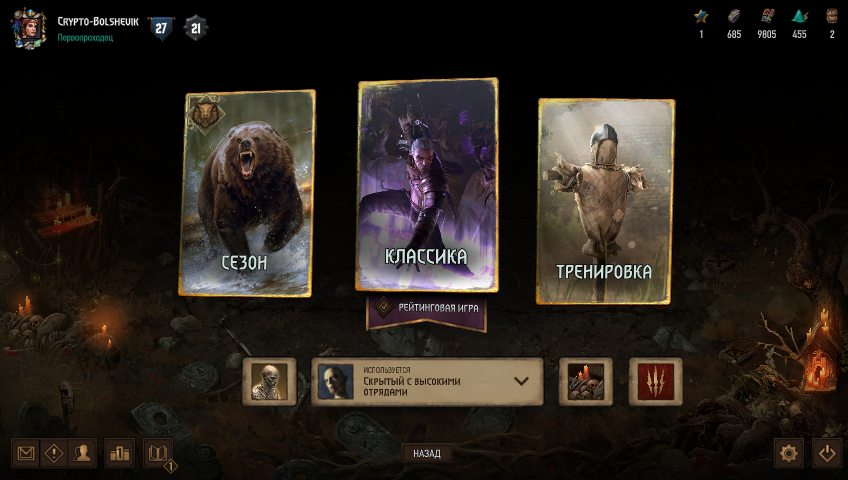
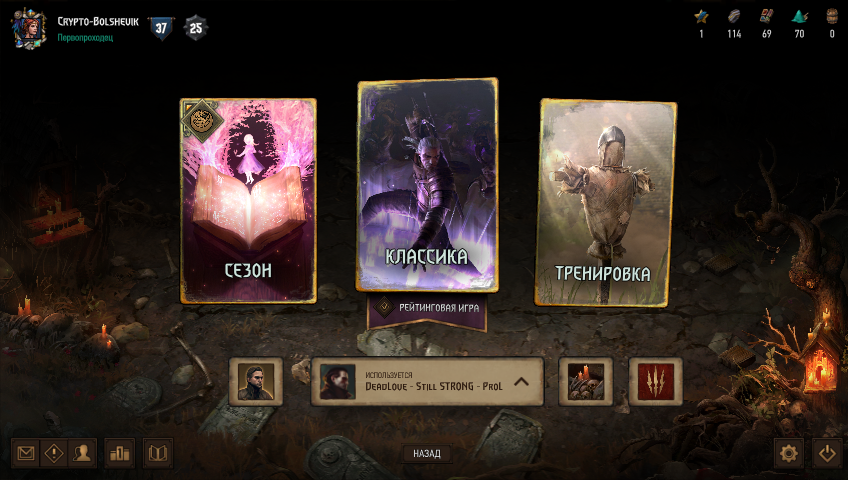
добавена основа соля PageObject внесены изменения в распознание состояния GameModes, в связи с новым патчем в игре

diff --git a/GwentBot.GUI/App.xaml b/GwentBot.GUI/App.xaml
@@ -4,6 +4,5 @@
              xmlns:local="clr-namespace:GwentBot.GUI"
              StartupUri="MainWindow.xaml">
     <Application.Resources>
-         
     </Application.Resources>
 </Application>

diff --git a/GwentBot/Bot.cs b/GwentBot/Bot.cs
@@ -1,6 +1,9 @@
 // This is an independent project of an individual developer. Dear PVS-Studio, please check it.
 // PVS-Studio Static Code Analyzer for C, C++, C#, and Java: http://www.viva64.com
 using GwentBot.ComputerVision;
+using GwentBot.PageObjects;
+using GwentBot.PageObjects.SupportObjects;
+using GwentBot.StateAbstractions;
 using System;
 using System.Threading;
 using System.Threading.Tasks;
@@ -17,39 +20,59 @@ namespace GwentBot
         {
             IsWork = true;
 
+            //await Task.Run(() =>
+            //{
+            //    var screenShotCreator = new GwentWindowScreenShotCreator();
+            //    var cv = new OpenCvGwentStateChecker(screenShotCreator);
+            //    while (IsWork)
+            //    {
+            //        if (screenShotCreator.IsGameWindowFullVisible())
+            //        {
+            //            var globalStat = cv.GetCurrentGlobalGameStates();
+            //            var startGameStates = cv.GetCurrentStartGameStates();
+            //            var friendlyGameStat = cv.GetCurrentFriendlyGameStartStates();
+            //            var coinTossStat = cv.GetCurrentCoinTossStates();
+            //            var gameSesStat = cv.GetCurrentGameSessionStates();
+            //            var notif = cv.GetCurrentNotifications();
+
+            //            if (globalStat != GlobalGameStates.Unknown)
+            //                GameStatusChanged?.Invoke(Enum.GetName(globalStat.GetType(), globalStat));
+            //            else if (startGameStates != StartGameStates.Unknown)
+            //                GameStatusChanged?.Invoke(Enum.GetName(startGameStates.GetType(), startGameStates));
+            //            else if (friendlyGameStat != FriendlyGameStartStates.Unknown)
+            //                GameStatusChanged?.Invoke(Enum.GetName(friendlyGameStat.GetType(), friendlyGameStat));
+            //            else if (coinTossStat != CoinTossStates.Unknown)
+            //                GameStatusChanged?.Invoke(Enum.GetName(coinTossStat.GetType(), coinTossStat));
+            //            else if (gameSesStat != GameSessionStates.Unknown)
+            //                GameStatusChanged?.Invoke(Enum.GetName(gameSesStat.GetType(), gameSesStat));
+            //            else
+            //                GameStatusChanged?.Invoke("Unknown");
+
+            //            if (notif != Notifications.NoNotifications)
+            //                GameStatusChanged?.Invoke(Enum.GetName(notif.GetType(), notif));
+            //        }
+
+            //        Thread.Sleep(500);
+            //    }
+            //});
+
+            var screenShotCreator = new GwentWindowScreenShotCreator();
+            var cv = new OpenCvGwentStateChecker(screenShotCreator);
+
             await Task.Run(() =>
             {
-                var screenShotCreator = new GwentWindowScreenShotCreator();
-                var cv = new OpenCvGwentStateChecker(screenShotCreator);
-                while (IsWork)
+                while (this.IsWork)
                 {
                     if (screenShotCreator.IsGameWindowFullVisible())
                     {
-                        var globalStat = cv.GetCurrentGlobalGameStates();
-                        var startGameStates = cv.GetCurrentStartGameStates();
-                        var friendlyGameStat = cv.GetCurrentFriendlyGameStartStates();
-                        var coinTossStat = cv.GetCurrentCoinTossStates();
-                        var gameSesStat = cv.GetCurrentGameSessionStates();
-                        var notif = cv.GetCurrentNotifications();
-
-                        if (globalStat != GlobalGameStates.Unknown)
-                            GameStatusChanged?.Invoke(Enum.GetName(globalStat.GetType(), globalStat));
-                        else if (startGameStates != StartGameStates.Unknown)
-                            GameStatusChanged?.Invoke(Enum.GetName(startGameStates.GetType(), startGameStates));
-                        else if (friendlyGameStat != FriendlyGameStartStates.Unknown)
-                            GameStatusChanged?.Invoke(Enum.GetName(friendlyGameStat.GetType(), friendlyGameStat));
-                        else if (coinTossStat != CoinTossStates.Unknown)
-                            GameStatusChanged?.Invoke(Enum.GetName(coinTossStat.GetType(), coinTossStat));
-                        else if (gameSesStat != GameSessionStates.Unknown)
-                            GameStatusChanged?.Invoke(Enum.GetName(gameSesStat.GetType(), gameSesStat));
-                        else
-                            GameStatusChanged?.Invoke("Unknown");
-
-                        if (notif != Notifications.NoNotifications)
-                            GameStatusChanged?.Invoke(Enum.GetName(notif.GetType(), notif));
+                        var mainPage = new MainMenuPage(cv, new DefaultWaitingService());
+                        GameStatusChanged?.Invoke("Главное меню");
+                        var gameModesPage = mainPage.GoToGameModesPage();
+                        GameStatusChanged?.Invoke("Игровые режимы");
+                        var newMainPage = gameModesPage.GoToMainMenuPage();
+                        GameStatusChanged?.Invoke("Главное меню");
+                        IsWork = false;
                     }
-
-                    Thread.Sleep(500);
                 }
             });
         }

diff --git a/GwentBot.Tests/PageObjects/MainMenuPageTests.cs b/GwentBot.Tests/PageObjects/MainMenuPageTests.cs
@@ -1,0 +1,58 @@
+using GwentBot.PageObjects;
+using GwentBot.PageObjects.Abstract;
+using GwentBot.StateAbstractions;
+using Microsoft.VisualStudio.TestTools.UnitTesting;
+using Moq;
+
+namespace GwentBot.Tests.PageObjects
+{
+    [TestClass]
+    public class MainMenuPageTests
+    {
+        [TestMethod]
+        public void VerifyingPageTest_GlobalGameStatesMainMenu_CorrectNewObject()
+        {
+            //arrage
+            //act
+            MainMenuPage mainMenuPage = GetNewMainMenuPage();
+            //assert
+            Assert.IsNotNull(mainMenuPage);
+        }
+
+        [TestMethod]
+        public void VerifyingPageTest_GlobalGameStatesUnknown_NotCorrectNewObject()
+        {
+            try
+            {
+                //arrage
+                var gwentStateChecker = new Mock<IGwentStateChecker>();
+                gwentStateChecker.Setup(o => o.GetCurrentGlobalGameStates())
+                    .Returns(GlobalGameStates.Unknown);
+
+                var waitingService = new Mock<IWaitingService>();
+                waitingService.Setup(o => o.Wait(It.IsAny<int>()));
+                //act
+                MainMenuPage mainMenuPage = new MainMenuPage(
+                    gwentStateChecker.Object,
+                    waitingService.Object);
+                //assert
+            }
+            catch (System.Exception)
+            {
+                Assert.IsTrue(true);
+            }
+        }
+
+        private MainMenuPage GetNewMainMenuPage()
+        {
+            var gwentStateChecker = new Mock<IGwentStateChecker>();
+            gwentStateChecker.Setup(o => o.GetCurrentGlobalGameStates())
+                .Returns(GlobalGameStates.MainMenu);
+
+            var waitingService = new Mock<IWaitingService>();
+            waitingService.Setup(o => o.Wait(It.IsAny<int>()));
+
+            return new MainMenuPage(gwentStateChecker.Object, waitingService.Object);
+        }
+    }
+}

diff --git a/GwentBot/PageObjects/Abstract/PageObject.cs b/GwentBot/PageObjects/Abstract/PageObject.cs
@@ -1,0 +1,41 @@
+// This is an independent project of an individual developer. Dear PVS-Studio, please check it.
+// PVS-Studio Static Code Analyzer for C, C++, C#, and Java: http://www.viva64.com
+using AutoIt;
+using GwentBot.StateAbstractions;
+using System;
+using System.Threading;
+
+namespace GwentBot.PageObjects.Abstract
+{
+    internal abstract class PageObject
+    {
+        protected readonly IGwentStateChecker gwentStateChecker;
+        protected readonly IWaitingService waitingService;
+
+        /// <summary>
+        /// Ожидает валидного состояния игры 30 секунд. Если состояние валидно создает новый объект.
+        /// Если 30 секунд состояние игры не валидно выбрасывает исключение.
+        /// </summary>
+        /// <param name="gwentStateChecker">Любой класс реализующий IGwentStateChecker</param>
+        public PageObject(IGwentStateChecker gwentStateChecker, IWaitingService waitingService)
+        {
+            this.gwentStateChecker = gwentStateChecker;
+            this.waitingService = waitingService;
+
+            int second = 30;
+            for (; second != 0; second--)
+            {
+                if (VerifyingPage()) //-V3068
+                    break;
+                this.waitingService.Wait(1);
+            }
+            if (second == 0)
+                throw new Exception($"Это не страница {this.GetType()}");
+
+            AutoItX.AutoItSetOption("MouseCoordMode", 2);
+            AutoItX.AutoItSetOption("PixelCoordMode", 2);
+        }
+
+        protected abstract bool VerifyingPage();
+    }
+}

diff --git a/GwentBot.GUI/Properties/AssemblyInfo.cs b/GwentBot.GUI/Properties/AssemblyInfo.cs
@@ -1,8 +1,6 @@
 // This is an independent project of an individual developer. Dear PVS-Studio, please check it.
 // PVS-Studio Static Code Analyzer for C, C++, C#, and Java: http://www.viva64.com
 using System.Reflection;
-using System.Resources;
-using System.Runtime.CompilerServices;
 using System.Runtime.InteropServices;
 using System.Windows;
 
@@ -32,7 +30,6 @@ using System.Windows;
 
 //[assembly: NeutralResourcesLanguage("en-US", UltimateResourceFallbackLocation.Satellite)]
 
-
 [assembly: ThemeInfo(
     ResourceDictionaryLocation.None, //где расположены словари ресурсов по конкретным тематикам
                                      //(используется, если ресурс не найден на странице,
@@ -41,7 +38,6 @@ using System.Windows;
                                               //(используется, если ресурс не найден на странице,
                                               // в приложении или в каких-либо словарях ресурсов для конкретной темы)
 )]
-
 
 // Сведения о версии сборки состоят из следующих четырех значений:
 //

diff --git a/GwentBot/PageObjects/MainMenuPage.cs b/GwentBot/PageObjects/MainMenuPage.cs
@@ -1,0 +1,35 @@
+// This is an independent project of an individual developer. Dear PVS-Studio, please check it.
+// PVS-Studio Static Code Analyzer for C, C++, C#, and Java: http://www.viva64.com
+using AutoIt;
+using GwentBot.PageObjects.Abstract;
+using GwentBot.StateAbstractions;
+using System;
+
+namespace GwentBot.PageObjects
+{
+    internal class MainMenuPage : PageObject
+    {
+        public MainMenuPage(IGwentStateChecker gwentStateChecker, IWaitingService waitingService)
+            : base(gwentStateChecker, waitingService)
+        {
+        }
+
+        protected override bool VerifyingPage()
+        {
+            return this.gwentStateChecker.GetCurrentGlobalGameStates() ==
+                GlobalGameStates.MainMenu;
+        }
+
+        internal GameModesPage GoToGameModesPage()
+        {
+            AutoItX.MouseClick("left", 425, 240, 1);
+            return new GameModesPage(this.gwentStateChecker, this.waitingService);
+        }
+
+        internal ArenaModePage GoToArenaModePage()
+        {
+            AutoItX.MouseClick("left", 565, 258, 1);
+            return new ArenaModePage(this.gwentStateChecker, this.waitingService);
+        }
+    }
+}

diff --git a/GwentBot/PageObjects/GameModesPage.cs b/GwentBot/PageObjects/GameModesPage.cs
@@ -1,0 +1,28 @@
+// This is an independent project of an individual developer. Dear PVS-Studio, please check it.
+// PVS-Studio Static Code Analyzer for C, C++, C#, and Java: http://www.viva64.com
+using AutoIt;
+using GwentBot.PageObjects.Abstract;
+using GwentBot.StateAbstractions;
+
+namespace GwentBot.PageObjects
+{
+    internal class GameModesPage : PageObject
+    {
+        public GameModesPage(IGwentStateChecker gwentStateChecker, IWaitingService waitingService)
+            : base(gwentStateChecker, waitingService)
+        {
+        }
+
+        protected override bool VerifyingPage()
+        {
+            return this.gwentStateChecker.GetCurrentGlobalGameStates() ==
+                GlobalGameStates.GameModesTab;
+        }
+
+        internal MainMenuPage GoToMainMenuPage()
+        {
+            AutoItX.MouseClick("left", 427, 453, 1);
+            return new MainMenuPage(this.gwentStateChecker, this.waitingService);
+        }
+    }
+}

diff --git a/GwentBot/ComputerVision/OpenCVGwentStateChecker.cs b/GwentBot/ComputerVision/OpenCVGwentStateChecker.cs
@@ -1,5 +1,6 @@
 // This is an independent project of an individual developer. Dear PVS-Studio, please check it.
 // PVS-Studio Static Code Analyzer for C, C++, C#, and Java: http://www.viva64.com
+using GwentBot.StateAbstractions;
 using OpenCvSharp;
 using OpenCvSharp.Extensions;
 
@@ -259,8 +260,8 @@ namespace GwentBot.ComputerVision
 
                 var tempPos = PatternSearchRoi(
                     localGameScreen,
-                    new Mat(@"ComputerVision\PatternsForCV\GlobalGameStates\GameModesTab-DeckDropDownArrow.jpg"),
-                    new Rect(493, 363, 46, 37));
+                    new Mat(@"ComputerVision\PatternsForCV\GlobalGameStates\GameModesTab-DeckDropDownArrow.png"),
+                    new Rect(500, 360, 50, 40));
 
                 return (tempPos != Rect.Empty);
             }

diff --git a/GwentBot/PageObjects/ArenaModePage.cs b/GwentBot/PageObjects/ArenaModePage.cs
@@ -1,0 +1,21 @@
+// This is an independent project of an individual developer. Dear PVS-Studio, please check it.
+// PVS-Studio Static Code Analyzer for C, C++, C#, and Java: http://www.viva64.com
+using GwentBot.PageObjects.Abstract;
+using GwentBot.StateAbstractions;
+
+namespace GwentBot.PageObjects
+{
+    internal class ArenaModePage : PageObject
+    {
+        public ArenaModePage(IGwentStateChecker gwentStateChecker, IWaitingService waitingService)
+            : base(gwentStateChecker, waitingService)
+        {
+        }
+
+        protected override bool VerifyingPage()
+        {
+            return this.gwentStateChecker.GetCurrentGlobalGameStates() ==
+                GlobalGameStates.ArenaModeTab;
+        }
+    }
+}

diff --git a/GwentBot.Tests/Properties/AssemblyInfo.cs b/GwentBot.Tests/Properties/AssemblyInfo.cs
@@ -1,7 +1,6 @@
 // This is an independent project of an individual developer. Dear PVS-Studio, please check it.
 // PVS-Studio Static Code Analyzer for C, C++, C#, and Java: http://www.viva64.com
 using System.Reflection;
-using System.Runtime.CompilerServices;
 using System.Runtime.InteropServices;
 
 [assembly: AssemblyTitle("GwentBot.Tests")]
@@ -12,9 +11,7 @@ using System.Runtime.InteropServices;
 [assembly: AssemblyCopyright("Copyright ©  2019")]
 [assembly: AssemblyTrademark("")]
 [assembly: AssemblyCulture("")]
-
 [assembly: ComVisible(false)]
-
 [assembly: Guid("cc183d3a-fb48-4256-9aa2-44c015462999")]
 
 // [assembly: AssemblyVersion("1.0.*")]

diff --git a/GwentBot.GUI/MainWindow.xaml.cs b/GwentBot.GUI/MainWindow.xaml.cs
@@ -1,20 +1,6 @@
 // This is an independent project of an individual developer. Dear PVS-Studio, please check it.
 // PVS-Studio Static Code Analyzer for C, C++, C#, and Java: http://www.viva64.com
-using System;
-using System.Collections.Generic;
-using System.Linq;
-using System.Text;
-using System.Threading.Tasks;
 using System.Windows;
-using System.Windows.Controls;
-using System.Windows.Data;
-using System.Windows.Documents;
-using System.Windows.Input;
-using System.Windows.Media;
-using System.Windows.Media.Imaging;
-using System.Windows.Navigation;
-using System.Windows.Shapes;
-using GwentBot;
 
 namespace GwentBot.GUI
 {
